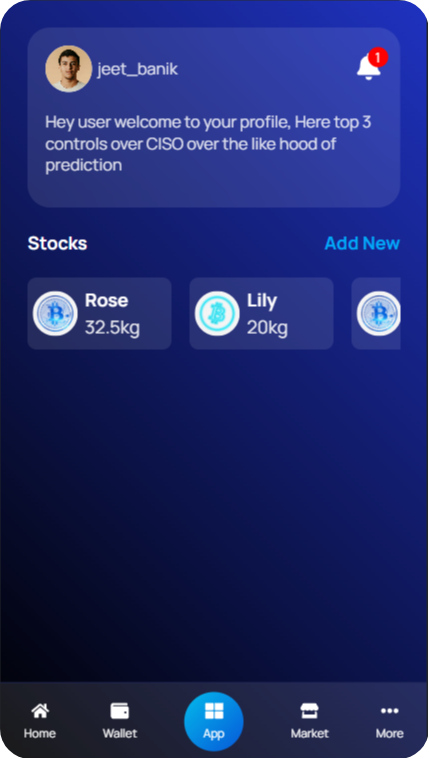
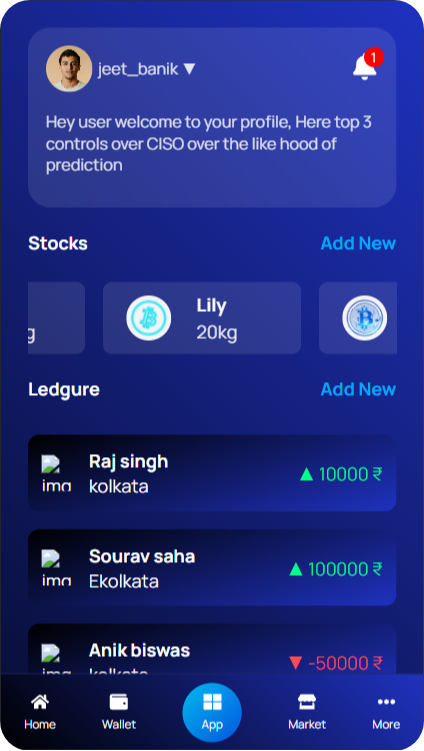
design-2

diff --git a/frontend/src/pages/Home.jsx b/frontend/src/pages/Home.jsx
@@ -3,6 +3,7 @@ import './Home.css';
 import Bottombar from '../components/Bottombar.jsx';
 import Stocks from '../components/Stocks.jsx';
 import { FaBell } from 'react-icons/fa';
+import Ledgure from '../components/Ledgure.jsx';
 
 export default function Home() {
   let currentuser = "jeet_banik";
@@ -18,12 +19,65 @@ export default function Home() {
     { name: 'Jasmine', quantity: '25kg', image: 'coin2.png' },
     { name: 'Marigold', quantity: '40kg', image: 'coin.png' },
   ];
+
+  const vendors = [
+    {
+      name: 'Raj singh',
+      quantity: '0.0032BTC',
+      location: 'kolkata',
+      difference: 10000,
+      image: '/images/bitcoin.png', // Path to image
+    },
+    {
+      name: 'Sourav saha',
+      quantity: '00.0093ETH',
+      location: 'Ekolkata',
+      difference: 100000,
+      image: '/images/eth.png',
+    },
+    {
+      name: 'Anik biswas',
+      quantity: '1.00USDT',
+      location: 'kolkata',
+      difference: -50000,
+      image: '/images/usdt.png',
+    },
+      {
+      name: 'Jeet kbanik',
+      quantity: '0.0032BTC',
+      location: 'kolkata',
+      difference: -10000,
+      image: '/images/bitcoin.png', // Path to image
+    },
+    {
+      name: 'Pritam das',
+      quantity: '00.0093ETH',
+      location: 'kolkata',
+      difference: 210000,
+      image: '/images/eth.png',
+    },
+    {
+      name: 'Raja dey',
+      quantity: '1.00USDT',
+      location: 'kolkata',
+      difference: -410000,
+      image: '/images/usdt.png',
+    },
+    {
+      name: 'Abc roy',
+      quantity: '1.00USDT',
+      location: 'kolkata',
+      difference: 10000,
+      image: '/images/usdt.png',
+    },
+  ];
+
   return (
     <>
     <div className='background'>
       <div className='profile'>
         <div className="button-box">
-        <div className="auth"><button className='auth-btn'><img src="/app.png" alt="auth"/></button>{currentuser}</div>
+        <div className="auth"><button className='auth-btn'><img src="/app.png" alt="auth"/></button>{currentuser}{' ▼'}</div>
         <div className='notification'><div className='count'>1</div><FaBell size={24} color="#fff" /></div>
         </div>
         <p>Hey user welcome to your profile, Here top 3 controls over CISO over the like hood of prediction</p>
@@ -39,7 +93,13 @@ export default function Home() {
         ))}
       </div>
       </div>
-      
+      <div className="stock-add">
+        <p>Ledgure</p>
+        <button>Add New</button>
+      </div>
+      <div className="ledgure">
+       <Ledgure vendors={vendors} />
+      </div>
       <Bottombar/>
     </div>
     </>

diff --git a/frontend/src/components/Ledgure.css b/frontend/src/components/Ledgure.css
@@ -1,0 +1,62 @@
+.ledgure-container {
+  padding-top: 10px;
+  color: white;
+  padding-bottom: 65px;
+}
+
+.asset-grid {
+  display: grid;
+  grid-template-columns: 1fr;
+  gap: 16px;
+}
+
+.asset-card {
+  background: linear-gradient(160deg, #000000, #1F32C0);
+  border-radius: 10px;
+  padding: 12px;
+  display: flex;
+  justify-content: space-between;
+  align-items: center;
+  transition: transform 0.2s ease, box-shadow 0.2s ease;
+  cursor: pointer;
+}
+.asset-card:hover {
+  transform: translateY(-4px);
+  box-shadow: 0 6px 12px rgba(0, 0, 0, 0.3);
+}
+.asset-info {
+  display: flex;
+  align-items: center;
+  gap: 10px;
+}
+
+.asset-icon {
+  width: 32px;
+  height: 32px;
+  object-fit: contain;
+}
+
+.vendor-name {
+  font-size: 12px;
+  color: #a1a1aa;
+}
+
+.asset-value {
+  text-align: right;
+}
+.positive-diff {
+  color: #00ff88; /* or green */
+  font-weight: 300;
+}
+
+.negative-diff {
+  color: #ff4d4d; /* or red */
+  font-weight: 300;
+}
+
+/* Responsive: 3 columns on screens >= 1024px */
+@media (min-width: 1024px) {
+  .asset-grid {
+    grid-template-columns: repeat(3, 1fr);
+  }
+}

diff --git a/frontend/src/components/Ledgure.jsx b/frontend/src/components/Ledgure.jsx
@@ -1,0 +1,25 @@
+import React from 'react';
+import './Ledgure.css';
+
+export default function Ledgure({ vendors }) {
+  return (
+    <div className="ledgure-container">
+      <div className="asset-grid">
+        {vendors.map((vendor, index) => (
+          <div className="asset-card" key={index}>
+            <div className="asset-info">
+              <img src={vendor.image} alt="img" className="asset-icon" />
+              <div>
+                <h4>{vendor.name}</h4>
+                <p className="location">{vendor.location}</p>
+              </div>
+            </div>
+             <p className={vendor.difference >= 0 ? 'positive-diff' : 'negative-diff'}>
+              {vendor.difference >= 0 ? '▲' : '▼'} {vendor.difference} ₹
+            </p>
+          </div>
+        ))}
+      </div>
+    </div>
+  );
+}

diff --git a/frontend/src/components/Stocks.css b/frontend/src/components/Stocks.css
@@ -1,17 +1,25 @@
  .stock-box {
   height: 4rem;
-  width: 8rem;
+  width: 11rem;
   background: rgba(255, 255, 255, 0.1);
   position: relative;
   display: flex;
   align-items: center;
-  padding: 0.3rem;
+  padding: 1.3rem;
   box-sizing: border-box;
-  gap: 0.4rem;
+  margin-top: 4px;
+  gap: 1.4rem;
   border-radius: 0.5rem;
+  cursor: pointer;
   overflow: hidden;
+  transition: transform 0.2s ease, box-shadow 0.3s ease, background 0.3s ease;
 }
-
+.stock-box:hover {
+  transform: translateY(-4px) scale(1.02);
+  box-shadow: 0 8px 16px rgba(0, 0, 0, 0.3);
+  background: rgba(255, 255, 255, 0.15); /* brighter glass effect */
+  backdrop-filter: blur(6px); /* optional: adds a blur */
+}
 .stock-box img {
   height: 2.5rem;
   width: 2.5rem;

diff --git a/frontend/src/components/Bottombar.css b/frontend/src/components/Bottombar.css
@@ -2,7 +2,7 @@
   position: fixed;
   bottom: 0;
   width: 100%;
-  background: rgba(255, 255, 255, 0.1);
+  background: linear-gradient(45deg, #000000, #1F32C0);
   display: flex;
   justify-content: space-around;
   align-items: center;
